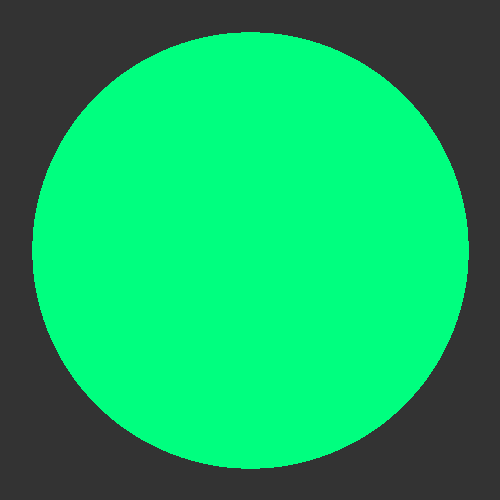
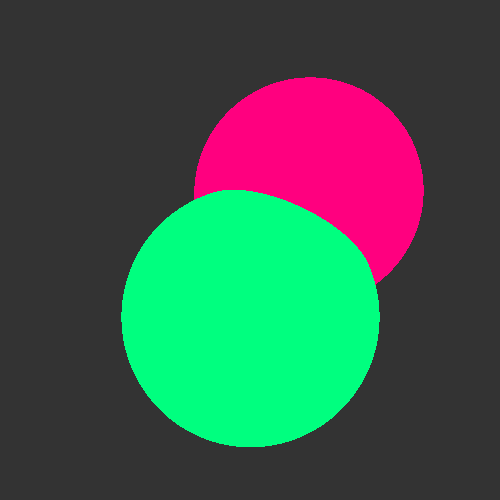
Added depth buffer support

diff --git a/main.cpp b/main.cpp
@@ -5,7 +5,12 @@
 #include "Sphere.h"
 #include "simpleImage.h"
 #include "Eigen/Dense"
+#include <vector>
 
+  static std::vector< std::vector<double> > make2DArray (int xWidth, int yWidth, double initValue) {
+    std::vector<std::vector<double> > arr(xWidth, std::vector<double>(yWidth, initValue));
+    return arr;
+  }
 
 int main (void) {
   int xRes = 500;
@@ -13,24 +18,47 @@ int main (void) {
   double xHeight = 1.0;
   double yHeight = 1.0;
   double maxDist = 10.0;
-  double sphereDistance = 4.0;
+  double sphereDistance = 7.0;
   double sphereRadius = 2.0;
-  RGBColor sphereColor = RGBColor(0.0,1.0,0.5);
+  RGBColor sphereColor1 = RGBColor(0.0,1.0,0.5);
+  RGBColor sphereColor2 = RGBColor(1.0,0.0,0.5);
   RGBColor bgColor = RGBColor(0.2,0.2,0.2);
   SimpleImage img = SimpleImage(xRes, yRes, bgColor);
-  Eigen::Vector4d sphereCenter = Eigen::Vector4d(0.0,0.0,sphereDistance,0.0);
+  Eigen::Vector4d sphereCenter1 = Eigen::Vector4d(0.0,-1.0,sphereDistance,0.0);
+  Eigen::Vector4d sphereCenter2 = Eigen::Vector4d(1.0,1.0,sphereDistance+1.0,0.0);
   Eigen::Vector4d eyepoint = Eigen::Vector4d(0.0,0.0,-1.0,0.0);
 
-  Sphere _sphere(sphereCenter, sphereRadius, sphereColor);
+  Sphere _sphere1(sphereCenter1, sphereRadius, sphereColor1);
+  Sphere _sphere2(sphereCenter2, sphereRadius, sphereColor2);
   Camera cam(maxDist, xRes, yRes, xHeight, yHeight, eyepoint);
+  std::vector<std::vector<double> > depthBuffer = make2DArray (xRes,yRes,-1.0);
 
   for (int localx = 0; localx<xRes; localx++){
     for (int localy = 0; localy<yRes; localy++){
       Ray n = cam.ShootRay(localx, localy);
-      double result = _sphere.intersect(n);
-      if (result >=0){
-        RGBColor pointCol = _sphere.color;
+      double result = _sphere1.intersect(n);
+      //result is positive means an intersection has happened
+      // result < delpthBuffer happens when new closer object is drawn in front of old one
+      // delpthBuffer < -.9 happens when the depth buffer was formerly empty (it is initalized to -1.0)
+      if (result >=0 && ((result < depthBuffer[localx][localy]) || (depthBuffer[localx][localy] < -.9))) {
+        RGBColor pointCol = _sphere1.color;
         img.set(localx, localy, pointCol);
+        depthBuffer[localx][localy] = result;
+      }
+    }
+  }
+
+  for (int localx = 0; localx<xRes; localx++){
+    for (int localy = 0; localy<yRes; localy++){
+      Ray n = cam.ShootRay(localx, localy);
+      double result = _sphere2.intersect(n);
+      //result is positive means an intersection has happened
+      // result < delpthBuffer happens when new closer object is drawn in front of old one
+      // delpthBuffer < -.9 happens when the depth buffer was formerly empty (it is initalized to -1.0)
+      if (result >=0 && ((result < depthBuffer[localx][localy]) || (depthBuffer[localx][localy] < -.9))) {
+        RGBColor pointCol = _sphere2.color;
+        img.set(localx, localy, pointCol);
+        depthBuffer[localx][localy] = result;
       }
     }
   }

diff --git a/Sphere.h b/Sphere.h
@@ -33,10 +33,10 @@ public:
   /*returns the time value at the intersection of the ray and sphere*/
   double intersect(Ray r) {
     //calculate determinant of intersection equation
-    std::cout<<(r.d).dot(Eigen::Vector4d(1.0,0.0,0.0,0.0))<<' '<<(r.d).dot(Eigen::Vector4d(0.0,1.0,0.0,0.0))<<' '<<(r.d).dot(Eigen::Vector4d(0.0,0.0,1.0,0.0))<<std::endl;
+    /*std::cout<<(r.d).dot(Eigen::Vector4d(1.0,0.0,0.0,0.0))<<' '
+    <<(r.d).dot(Eigen::Vector4d(0.0,1.0,0.0,0.0))<<' '<<(r.d).dot(Eigen::Vector4d(0.0,0.0,1.0,0.0))<<std::endl;*/
     double det = (r.d.dot(r.e-c))*(r.d.dot(r.e-c)) - (r.d.dot(r.d))*((r.e-c).dot(r.e-c)-rad*rad);
-    //det = -det; //debug
-    //std::cout<<det<<std::endl;
+    //std::cout<<det<<std::endl;2
     if (det < 0) {
       return -1;
     }

diff --git a/Camera.cpp b/Camera.cpp
@@ -15,6 +15,8 @@
         yRes = _yRes;
         xHeight = _xHeight;
         yHeight = _yHeight;
+        //default - up is the upwards direction
+        upDirection = Eigen::Vector4d(0.0,1.0,0.0,0.0);
         direction = _direction;
         eyepoint = _eyepoint;
         maxDist = _maxDist;
@@ -26,6 +28,7 @@
           yRes = _yRes;
           xHeight = _xHeight;
           yHeight = _yHeight;
+          //by default, look along the z axis
           direction = Eigen::Vector4d(0.0,0.0,1.0,0.0);
           eyepoint = _eyepoint;
           maxDist = _maxDist;

diff --git a/SimpleImage.h b/SimpleImage.h
@@ -73,7 +73,7 @@ class SimpleImage {
 
   // Load image from filename
   void load(const std::string& filename);
-  
+
   // Save image to filename
   bool save(const std::string& filename);
 

diff --git a/Camera.h b/Camera.h
@@ -11,6 +11,7 @@ class Camera {
     int yRes;
     double xHeight;
     double yHeight;
+    Eigen::Vector4d upDirection;
     Eigen::Vector4d direction;
     Eigen::Vector4d eyepoint;
 

diff --git a/Surface.h b/Surface.h
@@ -8,5 +8,5 @@ public:
   Surface () {
     ;
   };
-  //virtual double intersect(Ray* r) {}
+  virtual double intersect(Ray r) {return -1;}
 };
